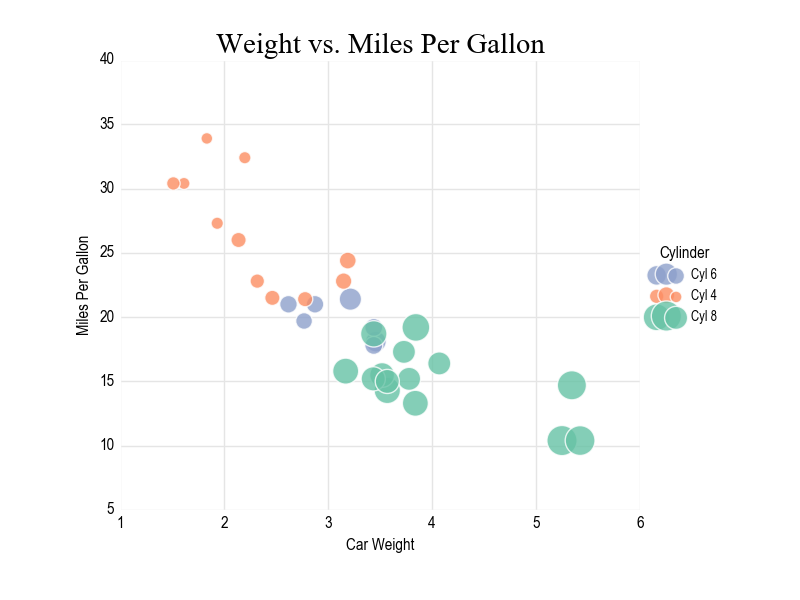
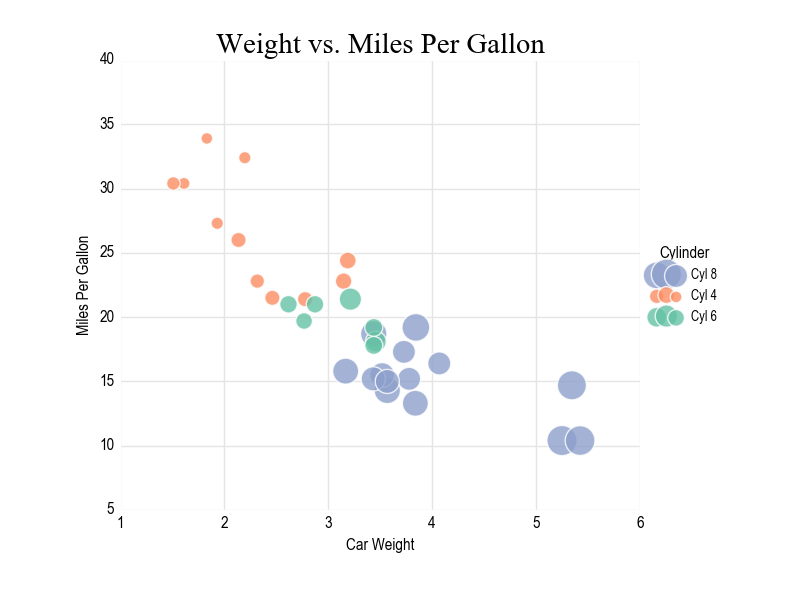
renamed color palette types to be more semantic

diff --git a/mmviz.py b/mmviz.py
@@ -8,9 +8,10 @@ MMVIZ_BRAND_FONT_SERIF = ["Times", "Times New Roman", "serif"]
 MMVIZ_BRAND_FONT_SANS_SERIF = ["Univers 47 Condensed Light", "Univers 57 Condensed",
                                "Arial Narrow", "Arial", "sans-serif"]
 
-MMVIZ_COLOR_PALETTE_QUAL_1 = ["#7570b3", "#d95f02", "#1b9e77", "#a6761d", "#e6ab02", "#666666", "#e7298a", "#66a61e"]
-MMVIZ_COLOR_PALETTE_QUAL_2 = ["#8da0cb", "#fc8d62", "#66c2a5", "#e5c494", "#ffd92f", "#b3b3b3", "#e78ac3", "#a6d854"]
-MMVIZ_COLOR_PALETTE_QUAL_3 = MMVIZ_COLOR_PALETTE_QUAL_1 + MMVIZ_COLOR_PALETTE_QUAL_2
+MMVIZ_COLOR_PALETTE_QUAL_DARK = ["#7570b3", "#d95f02", "#1b9e77", "#a6761d", "#e6ab02", "#666666", "#e7298a", "#66a61e"]
+MMVIZ_COLOR_PALETTE_QUAL_LIGHT = ["#8da0cb", "#fc8d62", "#66c2a5", "#e5c494", "#ffd92f", "#b3b3b3", "#e78ac3", "#a6d854"]
+MMVIZ_COLOR_PALETTE_QUAL_ALT_DARK = MMVIZ_COLOR_PALETTE_QUAL_DARK + MMVIZ_COLOR_PALETTE_QUAL_LIGHT
+MMVIZ_COLOR_PALETTE_QUAL_ALT_LIGHT = MMVIZ_COLOR_PALETTE_QUAL_LIGHT + MMVIZ_COLOR_PALETTE_QUAL_DARK
 
 MMVIZ_COLOR_PALETTE_SEQ  = ["#fff7fb", "#ece7f2", "#d0d1e6", "#a6bddb", "#74a9cf",
                            "#3690c0", "#0570b0", "#045a8d", "#023858"]
@@ -68,13 +69,16 @@ def scale_palette_mm(type = "qual"):
 def get_palette(type = "qual"):
 
     if type == "qual_color" or type == "qual_dark":
-        return MMVIZ_COLOR_PALETTE_QUAL_1
+        return MMVIZ_COLOR_PALETTE_QUAL_DARK
 
     if type == "qual" or type == "qual_fill" or type == "qual_light":
-        return MMVIZ_COLOR_PALETTE_QUAL_2
+        return MMVIZ_COLOR_PALETTE_QUAL_LIGHT
 
-    if type == "qual_all":
-        return MMVIZ_COLOR_PALETTE_QUAL_3
+    if type == "qual_alt_dark":
+        return MMVIZ_COLOR_PALETTE_QUAL_ALT_DARK
+
+    if type == "qual_alt" or type == "qual_alt_light":
+        return MMVIZ_COLOR_PALETTE_QUAL_ALT_LIGHT
 
     if type == "seq":
         return MMVIZ_COLOR_PALETTE_SEQ
